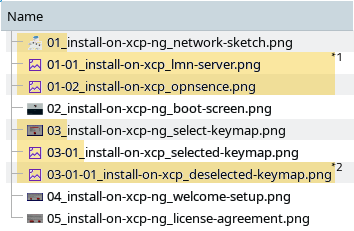
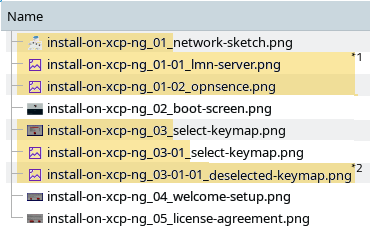
Fixed an error in the naming of media files

diff --git a/source/appendix/contribute/docs/guidelines.rst b/source/appendix/contribute/docs/guidelines.rst
@@ -21,10 +21,10 @@ Auf Ebene der Dateien:
 
   .. code-block:: rst
 
-     laufende-nummer_(unter)kapitelbezeichnung_beschreibung-des-dargestelltem
+     (unter)kapitelbezeichnung_laufende-nummer_beschreibung-des-dargestelltem
   
-  -  laufende-nummer <-- Bilder ihrer Verwendung nach von oben nach unten fortlaufend durchnummeriert; eine führende Null
   -  (unter)kapitelbezeichnung <-- Titel des Kapitels bzw. des Unterkapitels in dem die Medien-Datei verwendet wird
+  -  laufende-nummer <-- Bilder ihrer Verwendung nach von oben nach unten fortlaufend durchnummeriert; eine führende Null
   -  beschreibung-des-dargestelltem <-- Bei Fenstern zum Beispiel der Namen des Fensters
   -  Unterstrich (_) um die drei Felder voneinander abzugrenzen
   
@@ -33,10 +33,10 @@ Auf Ebene der Dateien:
   
   .. code-block:: rst
 
-     ../install-on-xcp-ng/media/01_install-on-xcp-ng_network-sketch.png
+     ../install-on-xcp-ng/media/install-on-xcp-ng_01_network-sketch.png
 
   
-  Hinzugefügte Dateien erben von der vorhergehenden Datei die Laufende-Nummer und die wird um eine neu aufsteigende Nummerierung ergänzt
+  Hinzugefügte Dateien erben von der vorhergehenden Datei die Laufende-Nummer und die wird um eine neu aufsteigende Nummerierung ergänzt.
 		  
      .. figure:: media/09_guedelines_view-of-the-file-structure.png
         :align: center
@@ -76,7 +76,7 @@ Styleguide
 
 - Ein Kapitel sollte einen toctree enthalten, wenn es mehrere Dateien gibt
 
-- Ein Kapitel kann ein Label erhalten
+- Ein Kapitel kann ein Label erhalten bzw. muss eines erhalten wenn es als Sprungziel dienen könnte. 
 
   .. code-block:: rst
 
@@ -84,6 +84,8 @@ Styleguide
 
      Bekannte Fehler
      ===============
+
+  Bennungen dieser Sprungpunkte sollen immer mit ``-label`` enden   
 
 - Mit diesem Sprungpunkt kann man an anderer Stelle auf ihn verweisen
 
